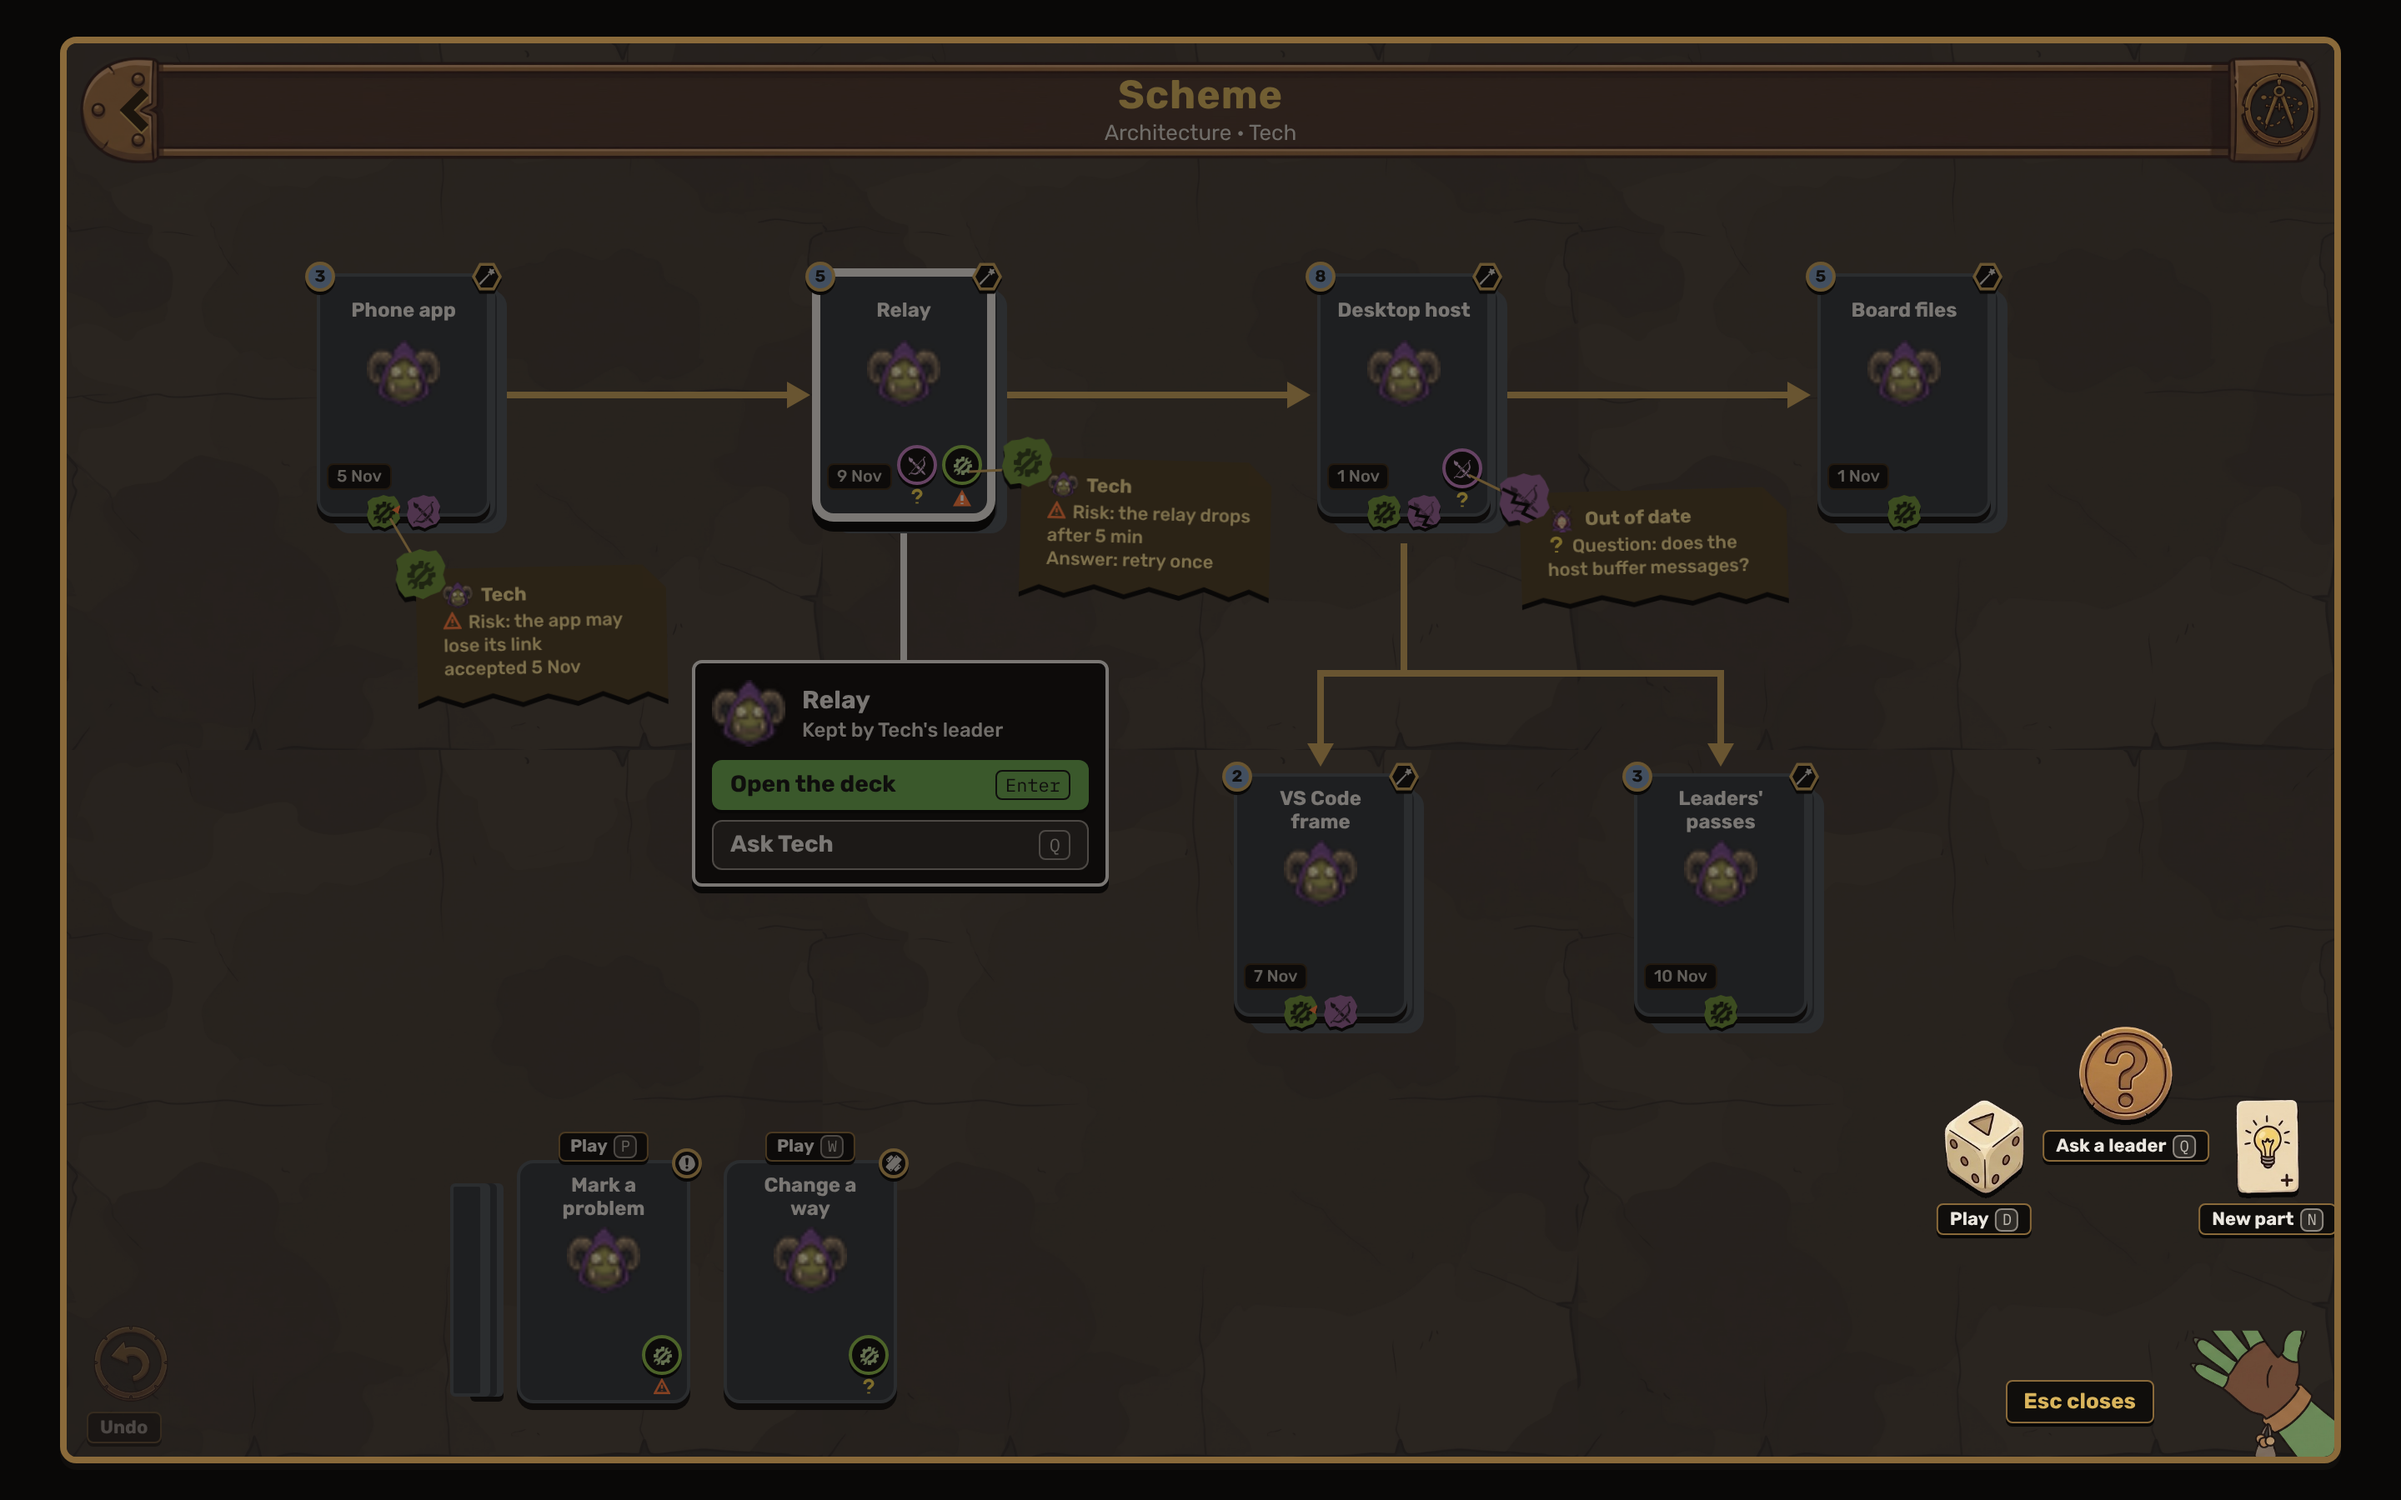
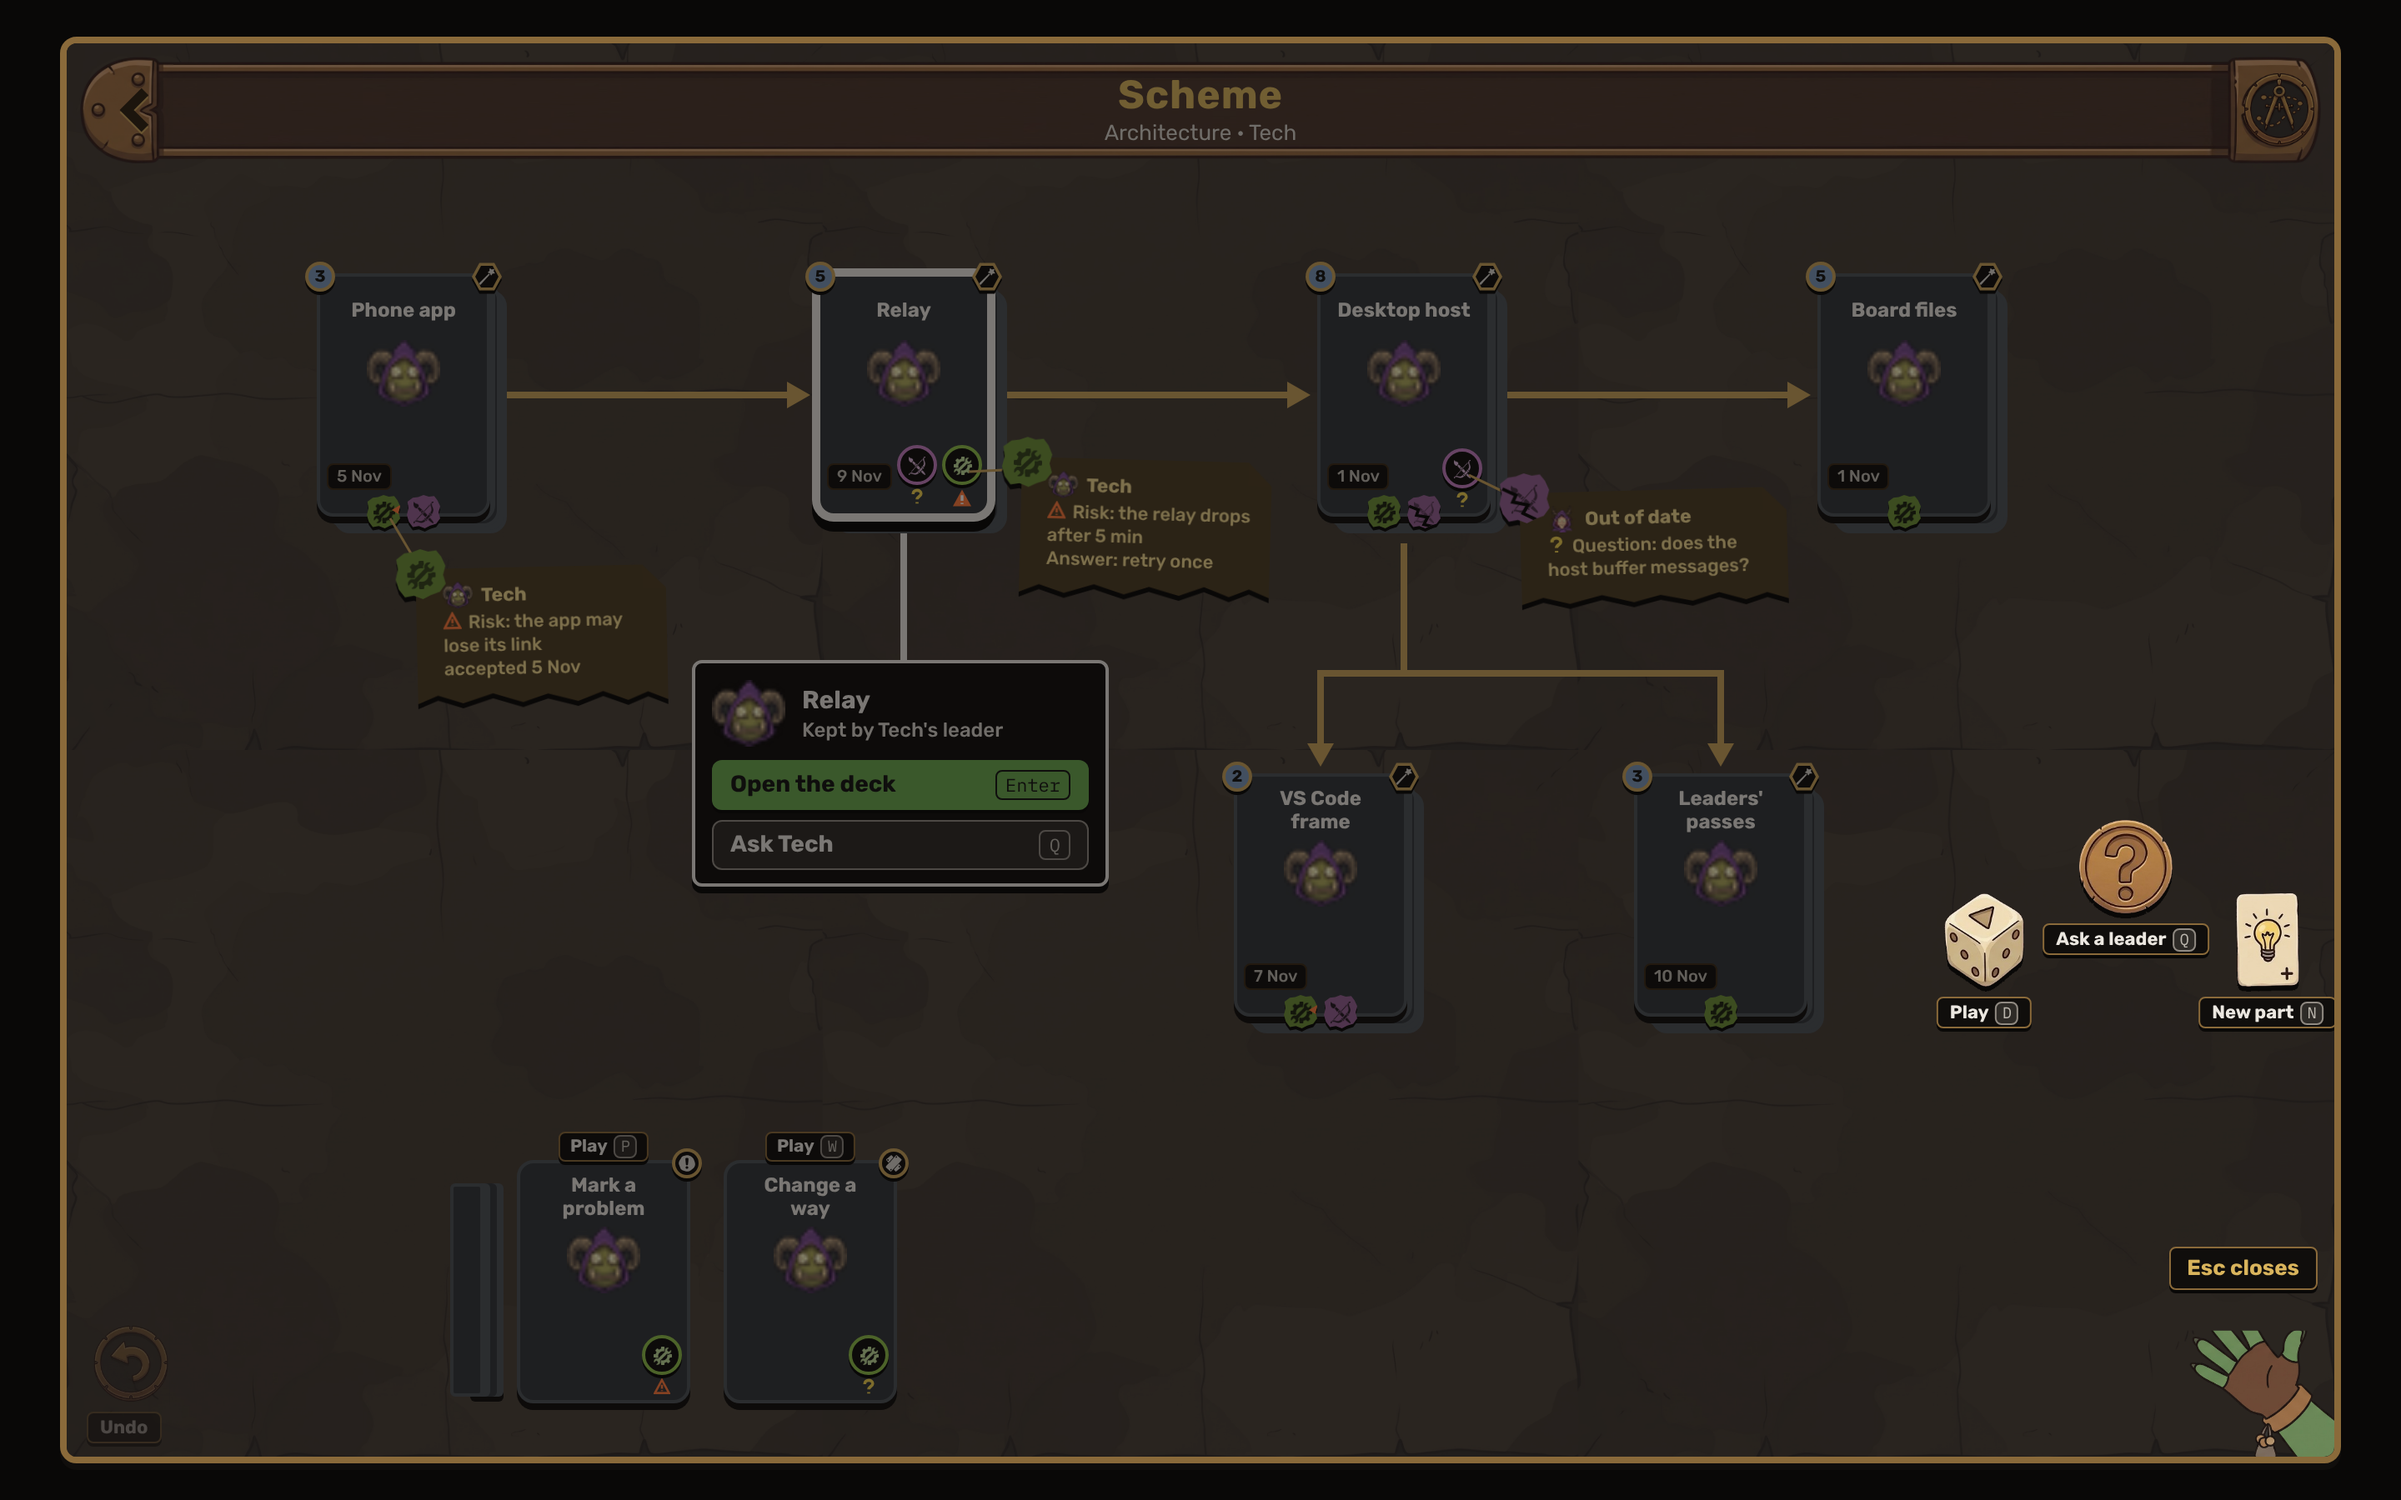
Mat mockups, final polish in progress: Slots and Scheme
Claude-Session: https://claude.ai/code/session_01MCU3dnmwpxzAdFr5WE7TTZ

Changed region(s): [[0.8125, 0.5289, 0.9688, 0.8711], [0.8125, 0.9022, 0.9062, 0.9644]]

diff --git a/docs/mockups/mat-scenes/scheme.html b/docs/mockups/mat-scenes/scheme.html
@@ -294,14 +294,15 @@ body[data-state="fab"] .handbtn { height: 96px; right: -6px; bottom: -4px; }
 .handbtn.fist { height: 70px; right: -10px; bottom: -10px; }
 .poseline { position: absolute; z-index: 30; right: 8px; bottom: 76px; padding: 3px 10px 4px; text-align: center; background: var(--ork-plate); border: 1px solid var(--ork-bronze); border-radius: 4px; box-shadow: 0 2px 0 var(--ork-room); font: 700 13px/17px var(--ork-font-text); color: var(--ork-gilt); white-space: nowrap; }
 .poseline small { display: block; font: 500 11px/14px var(--ork-font-text); color: var(--ork-ink-read); }
-body[data-state="fab"] .poseline { bottom: 20px; right: 108px; }
+body[data-state="fab"] .poseline { bottom: 100px; right: 10px; }
+body[data-state="fab"] .dplate { display: none; }
 .ticks { position: absolute; left: 0; top: 0; width: 100%; height: 100%; pointer-events: none; }
 .ticks i { position: absolute; width: 3px; height: 9px; background: var(--ork-gilt-hi); }
 .ticks i:nth-child(1) { left: 36%; top: 4%; rotate: -34deg; } .ticks i:nth-child(2) { left: 50%; top: -2%; rotate: -4deg; } .ticks i:nth-child(3) { left: 63%; top: 4%; rotate: 28deg; }
 .fanwrap, .pouchbar, .prop { display: none !important; }
 .dim { display: none; }
 body[data-state="fab"] .dim { display: block; position: absolute; inset: 0; z-index: 35; background: color-mix(in srgb, var(--ork-room) 50%, transparent); }
-.fab { display: none; position: absolute; z-index: 41; right: 10px; bottom: 108px; width: 230px; height: 150px; }
+.fab { display: none; position: absolute; z-index: 41; right: 10px; bottom: 232px; width: 230px; height: 150px; }
 body[data-state="fab"] .fab { display: block; }
 .fo { position: absolute; width: 60px; display: flex; flex-direction: column; align-items: center; gap: 6px; }
 .fo img { display: block; height: 56px; width: auto; filter: drop-shadow(0 3px 0 var(--ork-room)); }
@@ -327,11 +328,11 @@ body[data-face="phone"] .handbtn img { transform: scaleX(-1); }
 body[data-state="fab"][data-face="phone"] .handbtn { height: 64px; right: 2px; bottom: 16px; }
 body[data-face="phone"] .handbtn.fist { height: 56px; right: -14px; bottom: -10px; }
 body[data-state="fab"][data-face="phone"] .handbtn img { transform: scaleX(-1); }
-body[data-face="phone"] .fab { right: 4px; bottom: 96px; width: 190px; height: 124px; }
+body[data-face="phone"] .fab { right: 4px; bottom: 232px; width: 190px; height: 124px; }
 body[data-face="phone"] .fo { width: 48px; } body[data-face="phone"] .fo img { height: 46px; } body[data-face="phone"] .fo .fl { top: 52px; font-size: 10px; padding: 0 5px; }
 body[data-face="phone"] .fo.o1 { left: 0; top: 36px; } body[data-face="phone"] .fo.o2 { left: 70px; top: 0; } body[data-face="phone"] .fo.o3 { left: 140px; top: 36px; }
 body[data-face="phone"] .poseline { left: auto; right: 6px; bottom: 46px; font-size: 12px; padding: 2px 8px 3px; }
-body[data-state="fab"][data-face="phone"] .poseline { bottom: 24px; left: auto; right: 74px; }
+body[data-state="fab"][data-face="phone"] .poseline { bottom: 74px; left: auto; right: 4px; }
 body[data-face="phone"] .poseline small { display: none; }
 body[data-face="phone"] .keytab { display: none; }
 body[data-face="phone"] .pickblank { right: 17px; }

diff --git a/docs/mockups/mat-scenes/slots.html b/docs/mockups/mat-scenes/slots.html
@@ -295,14 +295,15 @@ body[data-state="fab"] .handbtn { height: 96px; right: -6px; bottom: -4px; }
 .handbtn.fist { height: 70px; right: -10px; bottom: -10px; }
 .poseline { position: absolute; z-index: 30; right: 8px; bottom: 76px; padding: 3px 10px 4px; text-align: center; background: var(--ork-plate); border: 1px solid var(--ork-bronze); border-radius: 4px; box-shadow: 0 2px 0 var(--ork-room); font: 700 13px/17px var(--ork-font-text); color: var(--ork-gilt); white-space: nowrap; }
 .poseline small { display: block; font: 500 11px/14px var(--ork-font-text); color: var(--ork-ink-read); }
-body[data-state="fab"] .poseline { bottom: 20px; right: 108px; }
+body[data-state="fab"] .poseline { bottom: 100px; right: 10px; }
+body[data-state="fab"] .dplate { display: none; }
 .ticks { position: absolute; left: 0; top: 0; width: 100%; height: 100%; pointer-events: none; }
 .ticks i { position: absolute; width: 3px; height: 9px; background: var(--ork-gilt-hi); }
 .ticks i:nth-child(1) { left: 36%; top: 4%; rotate: -34deg; } .ticks i:nth-child(2) { left: 50%; top: -2%; rotate: -4deg; } .ticks i:nth-child(3) { left: 63%; top: 4%; rotate: 28deg; }
 .fanwrap, .pouchbar, .prop { display: none !important; }
 .dim { display: none; }
 body[data-state="fab"] .dim { display: block; position: absolute; inset: 0; z-index: 35; background: color-mix(in srgb, var(--ork-room) 50%, transparent); }
-.fab { display: none; position: absolute; z-index: 41; right: 10px; bottom: 108px; width: 230px; height: 150px; }
+.fab { display: none; position: absolute; z-index: 41; right: 10px; bottom: 232px; width: 230px; height: 150px; }
 body[data-state="fab"] .fab { display: block; }
 .fo { position: absolute; width: 60px; display: flex; flex-direction: column; align-items: center; gap: 6px; }
 .fo img { display: block; height: 56px; width: auto; filter: drop-shadow(0 3px 0 var(--ork-room)); }
@@ -328,11 +329,11 @@ body[data-face="phone"] .handbtn img { transform: scaleX(-1); }
 body[data-state="fab"][data-face="phone"] .handbtn { height: 64px; right: 2px; bottom: 16px; }
 body[data-face="phone"] .handbtn.fist { height: 56px; right: -14px; bottom: -10px; }
 body[data-state="fab"][data-face="phone"] .handbtn img { transform: scaleX(-1); }
-body[data-face="phone"] .fab { right: 4px; bottom: 96px; width: 190px; height: 124px; }
+body[data-face="phone"] .fab { right: 4px; bottom: 232px; width: 190px; height: 124px; }
 body[data-face="phone"] .fo { width: 48px; } body[data-face="phone"] .fo img { height: 46px; } body[data-face="phone"] .fo .fl { top: 52px; font-size: 10px; padding: 0 5px; }
 body[data-face="phone"] .fo.o1 { left: 0; top: 36px; } body[data-face="phone"] .fo.o2 { left: 70px; top: 0; } body[data-face="phone"] .fo.o3 { left: 140px; top: 36px; }
 body[data-face="phone"] .poseline { left: auto; right: 6px; bottom: 46px; font-size: 12px; padding: 2px 8px 3px; }
-body[data-state="fab"][data-face="phone"] .poseline { bottom: 24px; left: auto; right: 74px; }
+body[data-state="fab"][data-face="phone"] .poseline { bottom: 74px; left: auto; right: 4px; }
 body[data-face="phone"] .poseline small { display: none; }
 body[data-face="phone"] .keytab { display: none; }
 body[data-face="phone"] .pickblank { right: 17px; }
